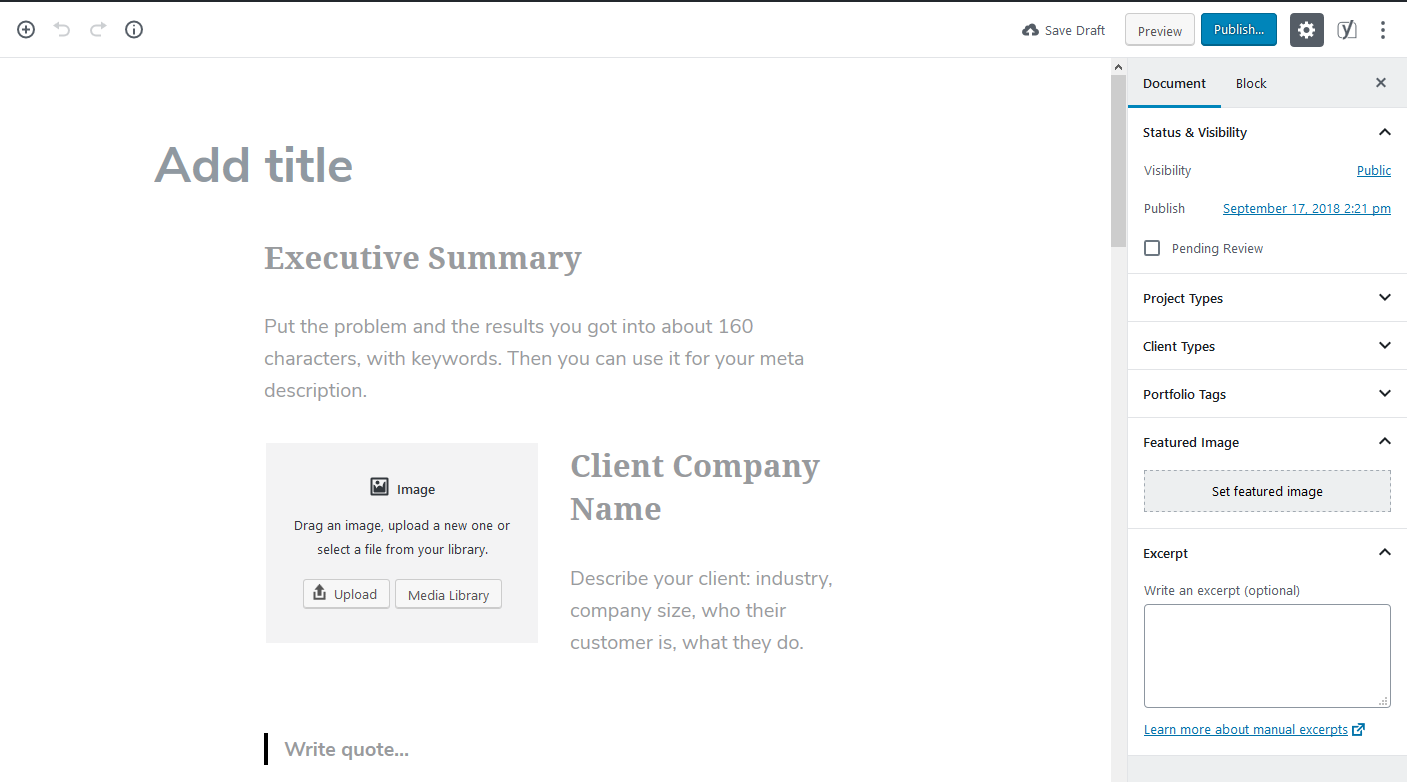
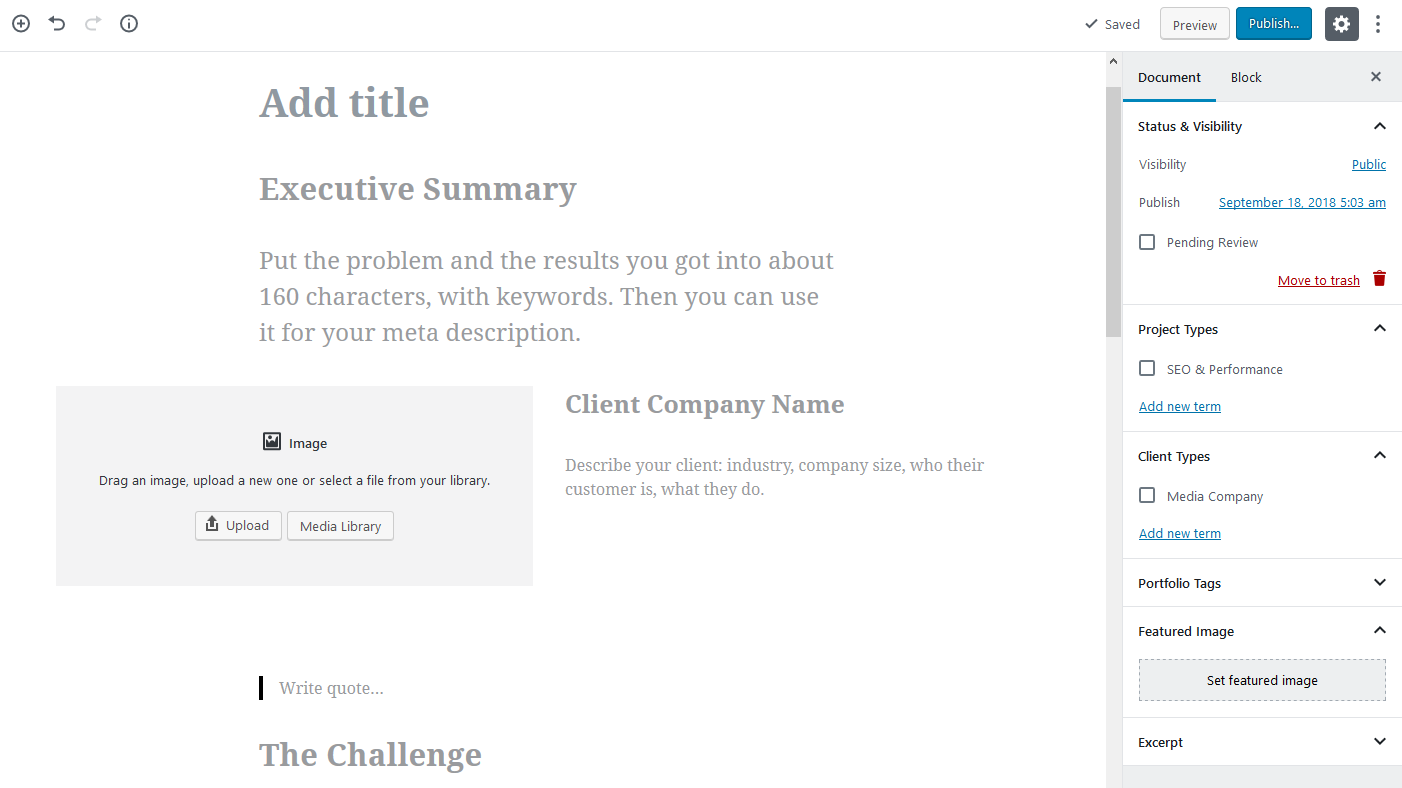
Update screenshot to show block attributes

diff --git a/block-portfolio.php b/block-portfolio.php
@@ -190,6 +190,7 @@ if ( ! function_exists('bbp_setup_post_type') ) {
 				array( 'core/button', array(
 					'customBackgroundColor' => '#CF2E2E',
 					'customTextColor' => '#ffffff',
+					'align' => 'center',
 				) ),
 			),
 		);

diff --git a/README.md b/README.md
@@ -14,7 +14,7 @@ Creates a portfolio post type with 3 custom taxonomies and a Gutenberg block tem
 
 This plugin builds the single portfolio entry from core Gutenberg blocks, arranged in a template to make it easier to create a portfolio of project case studies. Includes two hierarchical taxonomies (project type and client type) and one flat taxonomy (project tag).
 
-This is an extremely rudimentary plugin, created for WordCamp Sacramento 2018.
+Block attributes are now set for heading levels, font sizes in paragraphs, and alignment of images.
 
 ## Installation
 

diff --git a/block-attributes.md b/block-attributes.md
@@ -27,10 +27,12 @@
 * `width`
 * `height`
 * `linkDestination`
+
 ## core/list
+* `ordered` (default: false)
 ## core/paragraph
 * `align`
-* `dropCap` (default:false)
+* `dropCap` (default: false)
 * `placeholder`
 * `textColor`
 * `customTextColor`
